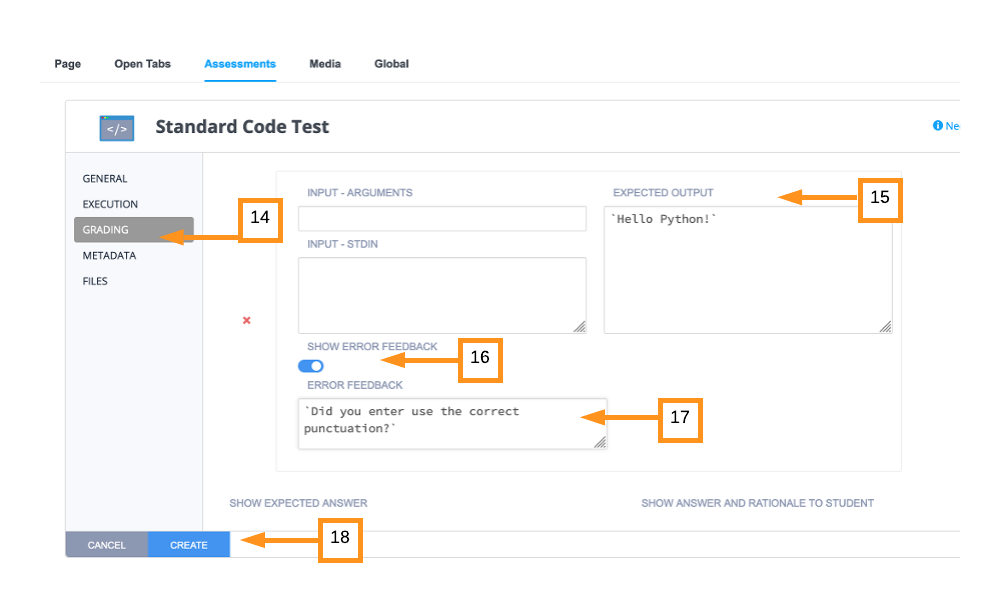
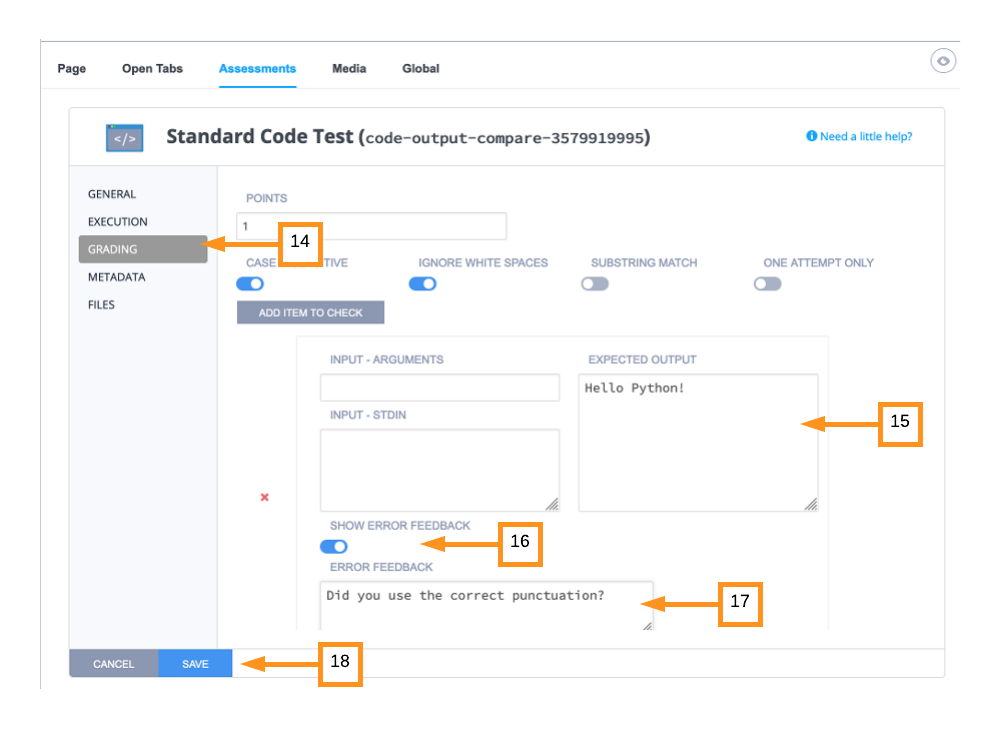
Final review updates

diff --git a/.guides/content/Setting-up-your-Courses-4d50.md b/.guides/content/Setting-up-your-Courses-4d50.md
@@ -2,13 +2,6 @@ Courses are where you create, organize and distribute content to your students.
 
 Assignments (Codio boxes) can be directly created inside **Courses**, providing structure to your resources. Experimental assignments can live in **My Projects** and later be added to a course. 
 
-### Assignment visability
-You can control when your students will see the assignments you have added. There is a **DRAFT** state for assignments you don't want your students to see. 
-![.guides/img/inProgressDraft](.guides/img/inProgressDraft.png)
-
-
-Assignments can also be disabled, students can see upcoming work but not open it until you are ready.
-
 A Course has the following properties:
 
 - A grouping of students who are participating in the course.
@@ -16,3 +9,11 @@ A Course has the following properties:
 - Assignments and instructional materials.
 - Instant access to student code and projects.
 - The ability to integrate with any LTI (industry standard protocol) enabled LMS platform. Then you can use your LMS to auto-populate your course and grade data can be fed back from Codio to the LMS. The Codio Documentation has more information about [LMS Integration](https://codio.com/docs/classes/lti/).
+
+### Assignment visability
+You can control when your students will see the assignments you have added. There is a **DRAFT** state for assignments you don't want your students to see. 
+![.guides/img/inProgressDraft](.guides/img/inProgressDraft.png)
+
+
+Assignments can also be disabled, students can see upcoming work but not open it until you are ready.
+

diff --git a/.guides/content/Adding-teaching-assistants-5d7c.md b/.guides/content/Adding-teaching-assistants-5d7c.md
@@ -2,12 +2,12 @@
 You can add additional teaching assistants for a selected course by sending an email invitation or if they are already members of the organisation, locating them and adding them to the course.
 
 1. Select the **Admin** tab near the top of the page
-2. Locate the **Teachers** area and press the **Edit** and then the **Add Teacher** link
+2. Click on **Edit** next to **Teachers** area then the **Add Teacher** link
 
 ![.guides/img/AddTA](.guides/img/AddTA.png)
  
-3. If they are already members in the organisation, find them in the **ADD USER FROM ORGANIZATION AS TEACHER** area and press the **Done** button once you are ready to add them
+3. If they are already members in the organization, find them in the **ADD USER FROM ORGANIZATION AS TEACHER** area and press the **Done** button once you are ready to add them.
 
-4. If they are not existing teachers in the organisation (or they may be TA's and a student in another course), you can send them an email invitation to join the course as a teacher
+4. If they are not existing teachers in the organization (or they may be TA's and a student in another course), you can send them an email invitation to join the course as a teacher.
 
 ![.guides/img/addClassTeacher](.guides/img/addClassTeacher.png)

diff --git a/.guides/content/Providing-instructional-materials-01f9.md b/.guides/content/Providing-instructional-materials-01f9.md
@@ -2,7 +2,9 @@
 
 ### Guides
 
-Codio provides you with the tools to create your own online teaching materials or edit existing materials. These materials are called Guides and this Onboarding Guide is an example. Instructional content and auto-graded assessments are authored using Guides. The powerful authoring tools give you access to many features of the Codio environment. 
+Codio provides you with the tools to create your own online teaching materials or edit existing materials. These materials are called Guides and this Onboarding Guide is an example. 
+
+Instructional content and auto-graded assessments are authored using Guides. The powerful authoring tools give you access to many features of the Codio environment. 
 
 From your Guide you can:
 

diff --git a/.guides/content/Viewing-your-materials-19b7.md b/.guides/content/Viewing-your-materials-19b7.md
@@ -14,7 +14,7 @@ You may view your course using the special student accounts Codio creates for yo
 ### Logging in as a test student
 As soon as you have added the test students, you are able to log in as one of the test students by pressing the **Login as** button. Please note that this is only available for the special test student accounts.
 
-For these special accounts, you do not need to actually login with a user name and password. Instead, you are taken directly to the **My Classroom** dashboard. 
+For these special accounts, you do not need to login with a user name and password. Instead, you are taken directly to the **My Classroom** dashboard. 
 
 ![](.guides/img/student-view.png)
 

diff --git a/.guides/content/Creating-a-course-4e79.md b/.guides/content/Creating-a-course-4e79.md
@@ -1,4 +1,4 @@
-You will use Markdown to create formatted content. Markdown provides you with many of the formatting capabilities you will need without the need to dive into more complicated HTML syntax. You can find more information about Markdown in the [Codio documention](https://codio.com/docs/content/authoring/page-edit/edit/).
+You use Markdown to create formatted content. Markdown provides many of the formatting capabilities without the need to dive into more complicated HTML syntax. You can find more information about Markdown in the [Codio documention](https://codio.com/docs/content/authoring/page-edit/edit/).
 
 1. Open the Guides editor by selecting **Tools->Guides->Edit**.
 

diff --git a/.guides/content/Creating-an-Assessment-539d.md b/.guides/content/Creating-an-Assessment-539d.md
@@ -35,7 +35,7 @@ To set this up:
 
 10. Make sure **GENERAL** is selected
 
-11. Enter Assessment 1 
+11. Enter Assessment 1 in the **NAME** field
 
 12. Paste the following into the **Instructions** section:
 
@@ -53,9 +53,9 @@ To set this up:
 
 16. Click the **SHOW ERROR FEEDBACK** toggle.
 
-17. in the **ERROR FEEDBACK** field enter `Did you enter use the correct punctuation?` 
+17. in the **ERROR FEEDBACK** field enter `Did you use the correct punctuation?` 
 
-18. Click **CREATE**.
+18. Click **SAVE**.
 ![.guides/img/gradingAssessment](.guides/img/gradingAssessment.png)
 
 On the next page you will learn how to pull in existing Assessments. 

diff --git a/.guides/content/Read-Me-files-65d3.md b/.guides/content/Read-Me-files-65d3.md
@@ -1,4 +1,4 @@
-An alternate way to provide instructions to your students is the `README.md` file. This is a simple approach to creating instructions and the student can open and close it as needed. 
+An alternate way to provide instructions to your students is the `README.md` file. This is a simple approach to creating instructions and the student can open and close the file as needed. 
 
 The `README.md` file will open automatically every time the student accesses the project.
 

diff --git a/.guides/content/Your-first-project---Hello-World-e536.md b/.guides/content/Your-first-project---Hello-World-e536.md
@@ -18,8 +18,8 @@ To learn about the other available features when starting a new project, see the
 
 
 ### Project name
-You should give your project a name. 
-4. Enter **My First Project**.
+ 
+4. Give your project a name, enter "My First Project".
 
 5. Press enter or click the **Create** button to start your server and begin working on the project.
 
